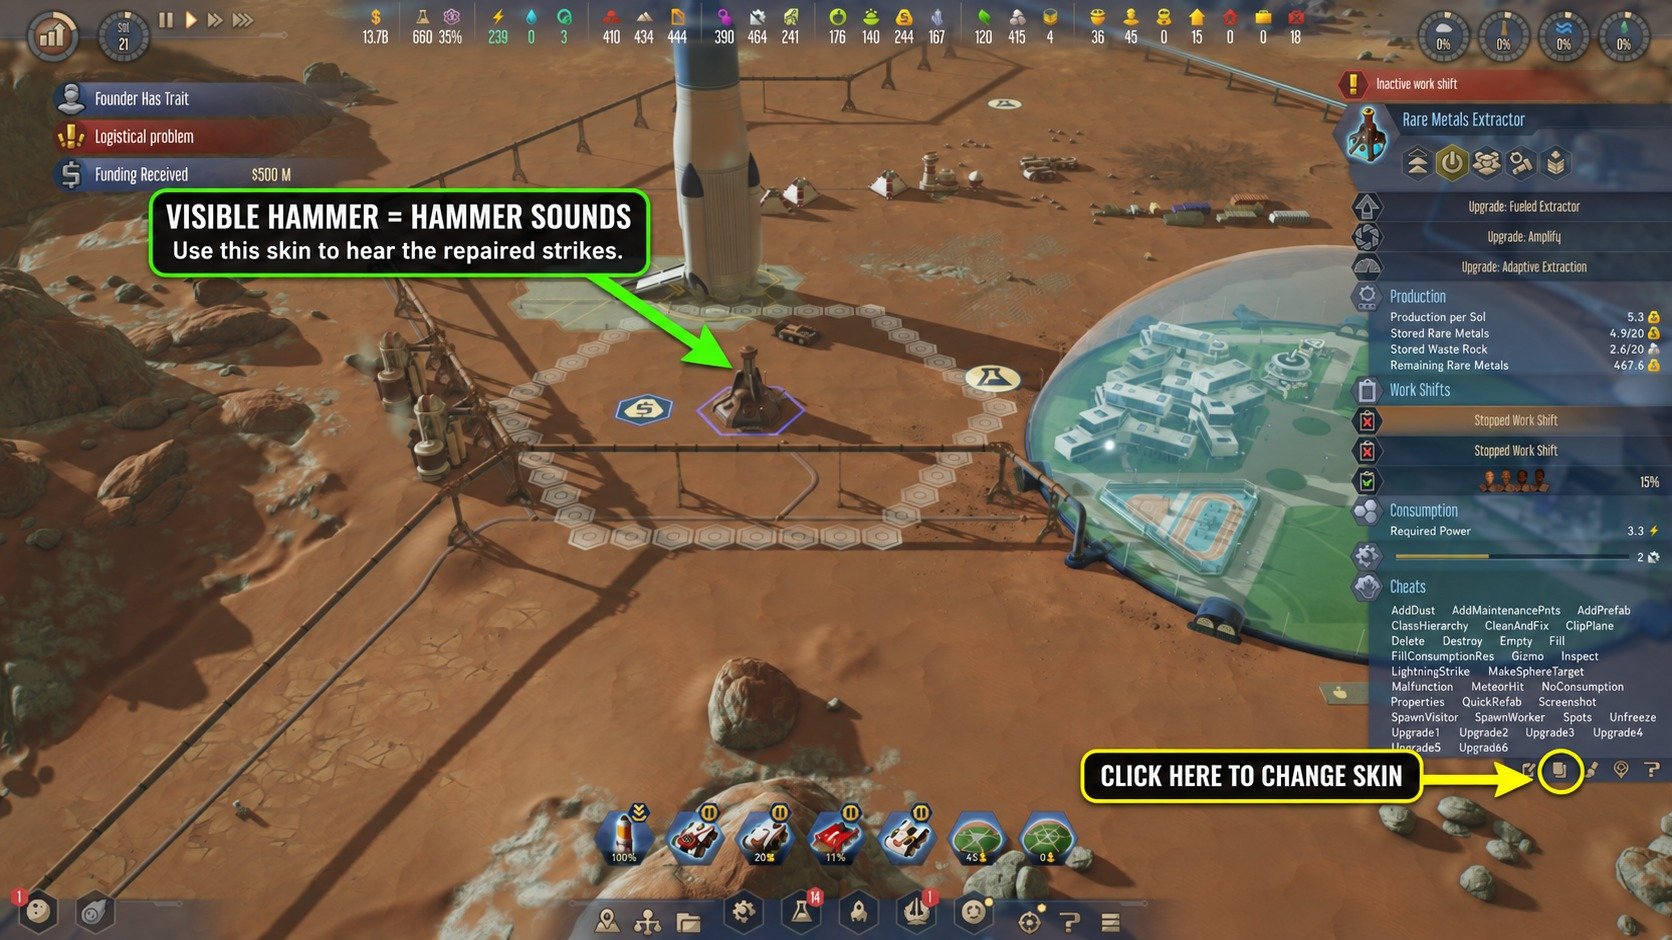
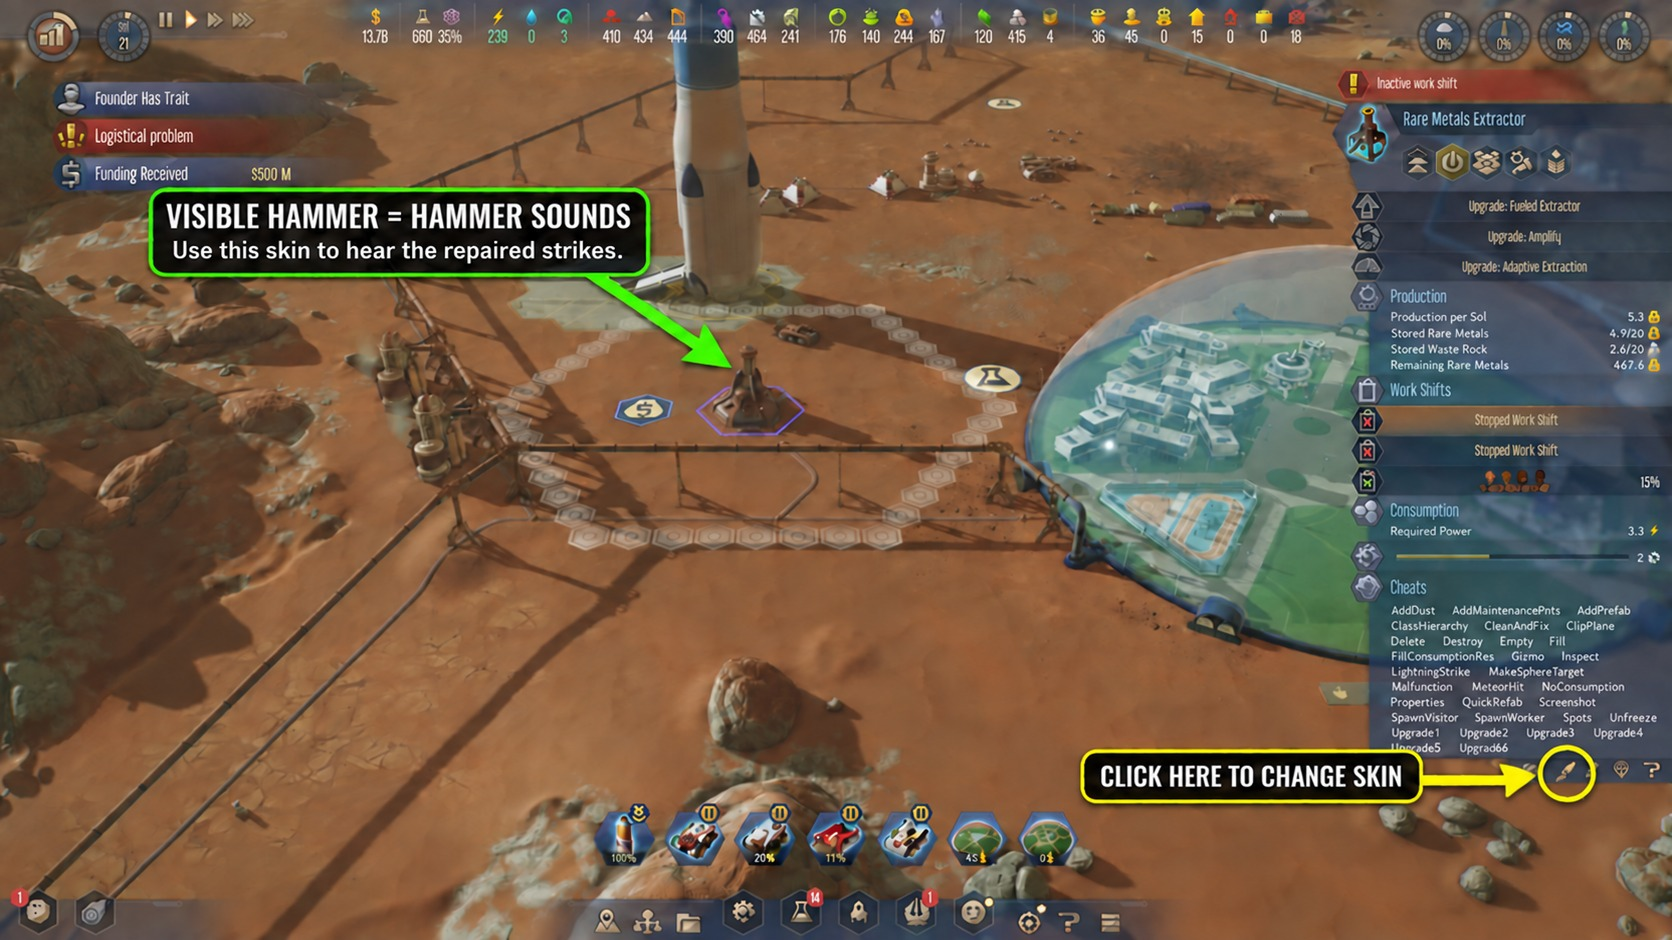
store screenshots: hammer-skin image rebuilt from the owner's corrected original (circle now on Change Skin, the paintbrush)
tools/store_screenshots.py reads 'Metal Extractor 1 - corrected.png'; images 1 and 3 rebuilt byte-identical. SESSION_LOG entry closed.

diff --git a/tools/store_screenshots.py b/tools/store_screenshots.py
@@ -22,7 +22,8 @@ LIMIT = 1_000_000  # Steam's cap is 1 MiB; keep a margin
 # gallery order = screenshot1..3 in metadata.lua
 MAP = [
     ("Metal Extractor 2.png", "1_rare_metals_drill_skin.jpg"),
-    ("Metal Extractor 1.png", "2_rare_metals_hammer_skin.jpg"),
+    # the original circled the stacked-squares button; the corrected copy circles Change Skin
+    ("Metal Extractor 1 - corrected.png", "2_rare_metals_hammer_skin.jpg"),
     ("Water Extractor.png", "3_moxie_skins.jpg"),  # the owner's file shows the MOXIE
 ]
 

diff --git a/docs/archive/SESSION_LOG.md b/docs/archive/SESSION_LOG.md
@@ -24,7 +24,9 @@ Paradox's 2 MB), `*/store_screenshots/*` in `ignore_files` + pack_predict (50 pa
 ignored). ⚠ Description 6,206 chars, Paradox untested above 5,342. ⚠ The owner's
 "Metal Extractor 1" circles the stacked-squares button, not Change Skin (the paintbrush) —
 zoom-verified; owner to fix and re-run the script before upload. The "Water Extractor" image
-is the MOXIE (owner confirmed).
+is the MOXIE (owner confirmed). ✅ Same evening: owner supplied `Metal Extractor 1 -
+corrected.png` (circle on the paintbrush, zoom-verified; a faint ghost of the brush remains
+beside it); `store_screenshots.py` now reads it and the gallery JPG was rebuilt.
 
 ---
 
